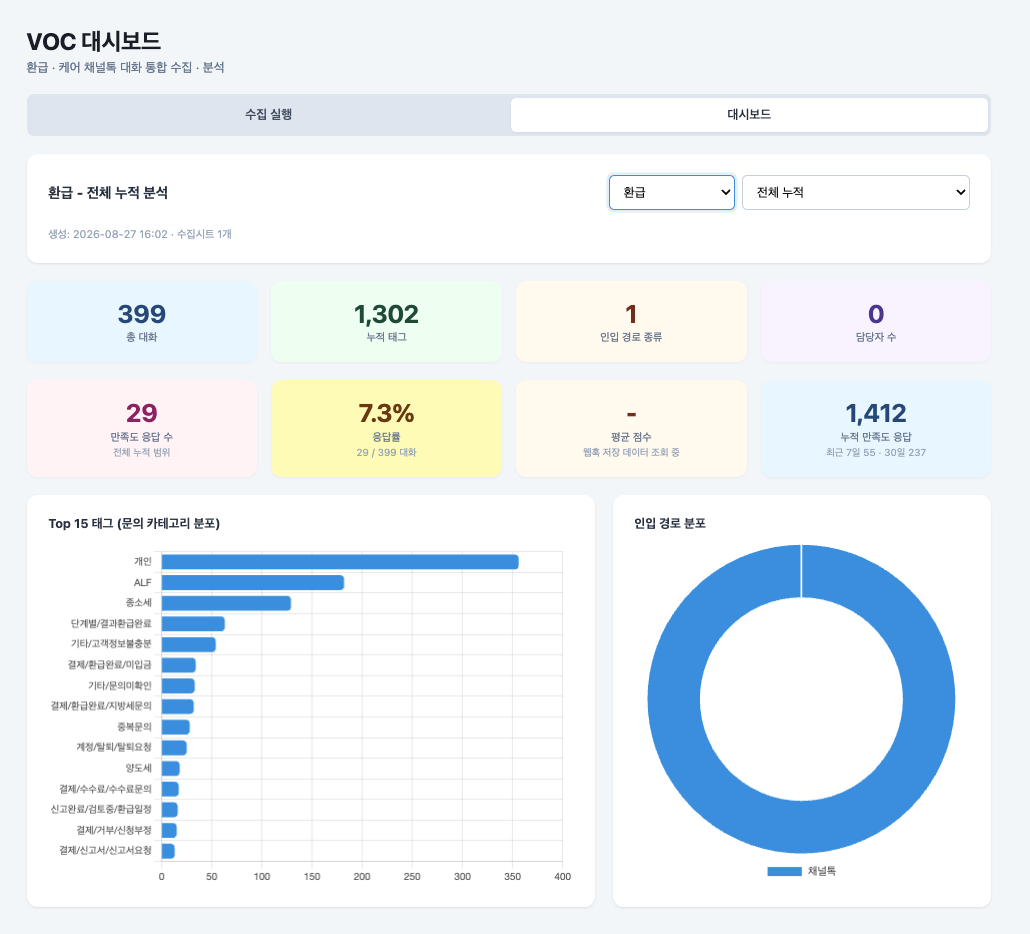
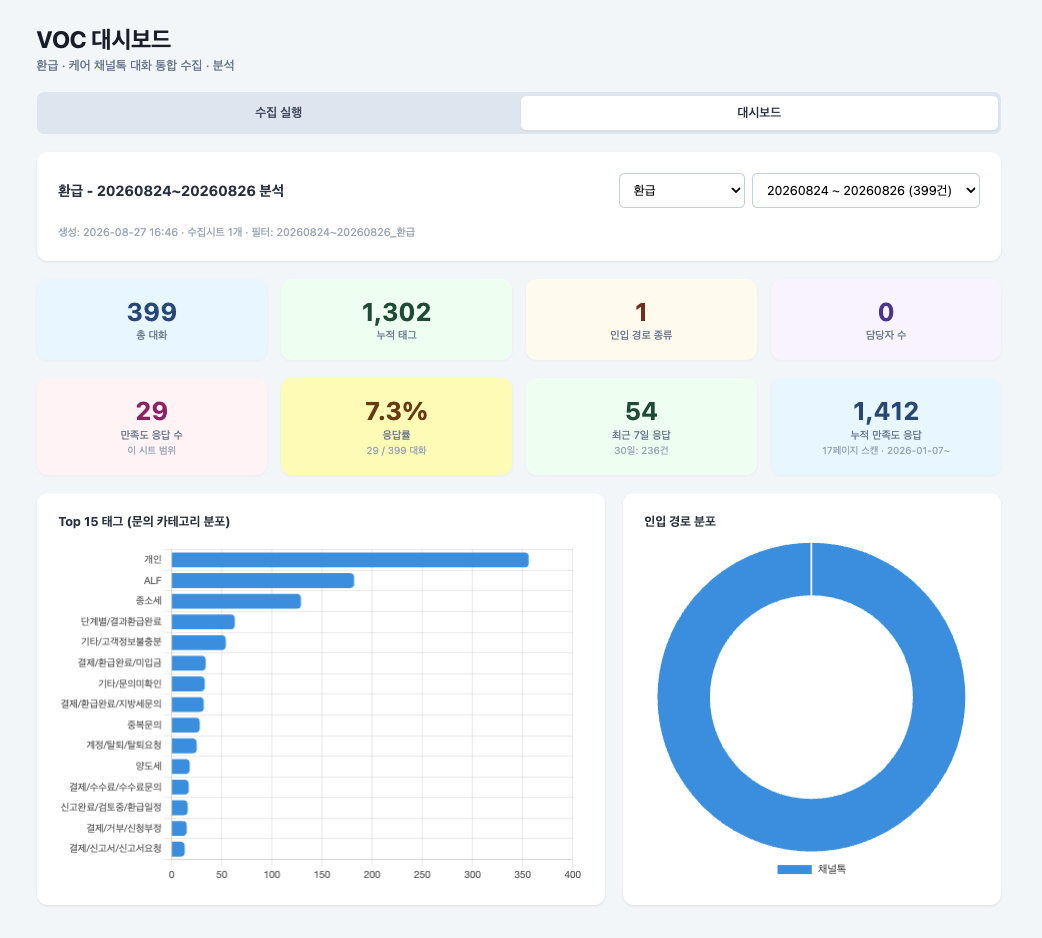
Sync channeltalk-voc: refined dashboard + updated screenshot
- code.gs: additional analytics (최근 7일/30일 응답 KPI, pagination
  scan progress) — workspace slugs and group id remain masked
- dashboard.html: minor refactor
- screenshot: new 환급 dashboard view (satisfaction respondent name
  list cropped out to avoid PII exposure)

diff --git a/projects/channeltalk-voc/dashboard.html b/projects/channeltalk-voc/dashboard.html
@@ -217,10 +217,10 @@
           <div class="lbl">응답률</div>
           <div class="sub" id="kpiRespRateSub">응답 / 대화</div>
         </div>
-        <div class="kpi orange">
-          <div class="num" id="kpiAvgScore">-</div>
-          <div class="lbl">평균 점수</div>
-          <div class="sub" id="kpiAvgScoreSub">점수 조회 필요</div>
+        <div class="kpi green">
+          <div class="num" id="kpiResp7d">-</div>
+          <div class="lbl">최근 7일 응답</div>
+          <div class="sub" id="kpiResp7dSub">전체 그룹 기준</div>
         </div>
         <div class="kpi blue">
           <div class="num" id="kpiRespTotal">-</div>
@@ -248,19 +248,8 @@
           </div>
           <div style="display:flex; gap:8px; align-items:center;">
             <span id="satRefreshedAt" style="font-size:11px; color:#a0aec0;"></span>
-            <button class="secondary" onclick="scanTranscripts()" title="이미 수집된 전사문에 form 내용이 있는지 확인">🔍 전사문 스캔</button>
             <button class="secondary" onclick="loadSatisfaction(true)">🔄 새로고침</button>
           </div>
-        </div>
-
-        <div style="margin-bottom:20px;">
-          <div style="font-size:13px; color:#4a5568; font-weight:600; margin-bottom:8px;">🎯 영향 요소 분포 (점수에 가장 큰 영향을 미친 요소)</div>
-          <div id="factorBox"><div class="empty" style="padding:20px;">점수 조회 후 표시됩니다</div></div>
-        </div>
-
-        <div style="margin-bottom:20px;">
-          <div style="font-size:13px; color:#4a5568; font-weight:600; margin-bottom:8px;">💬 기타 사유 (서술형)</div>
-          <div id="etcBox"><div class="empty" style="padding:20px;">점수 조회 후 표시됩니다</div></div>
         </div>
 
         <div class="table-wrap" id="respondentsBox">
@@ -811,7 +800,7 @@
         return;
       }
 
-      ['kpiRespCount','kpiRespRate','kpiAvgScore','kpiRespTotal'].forEach(function(id) {
+      ['kpiRespCount','kpiRespRate','kpiResp7d','kpiRespTotal'].forEach(function(id) {
         document.getElementById(id).textContent = '...';
       });
       document.getElementById('respondentsBox').innerHTML = '<div class="empty">응답자 조회 중... (10~20초)</div>';
@@ -821,7 +810,7 @@
       google.script.run
         .withSuccessHandler(function(res) {
           if (!res.ok) {
-            ['kpiRespCount','kpiRespRate','kpiAvgScore','kpiRespTotal'].forEach(function(id) {
+            ['kpiRespCount','kpiRespRate','kpiResp7d','kpiRespTotal'].forEach(function(id) {
               document.getElementById(id).textContent = '-';
             });
             document.getElementById('kpiRespCountSub').textContent = res.error || '오류';
@@ -833,7 +822,7 @@
           renderSatisfactionFromData(res, now);
         })
         .withFailureHandler(function(err) {
-          ['kpiRespCount','kpiRespRate','kpiAvgScore','kpiRespTotal'].forEach(function(id) {
+          ['kpiRespCount','kpiRespRate','kpiResp7d','kpiRespTotal'].forEach(function(id) {
             document.getElementById(id).textContent = '-';
           });
           document.getElementById('respondentsBox').innerHTML = '<div class="empty">오류: ' + escapeHtml(err.message) + '</div>';
@@ -849,13 +838,12 @@
       document.getElementById('kpiRespRate').textContent = res.responseRate + '%';
       document.getElementById('kpiRespRateSub').textContent = fmt(res.matchedInSheets) + ' / ' + fmt(res.totalChatsInScope) + ' 대화';
 
-      // 평균점수: 웹훅 저장 시트에서 병합 (아래 mergeStoredWebhookData 에서 처리)
-      document.getElementById('kpiAvgScore').textContent = '-';
-      document.getElementById('kpiAvgScoreSub').textContent = '웹훅 저장 데이터 조회 중';
+      document.getElementById('kpiResp7d').textContent = fmt(res.last7dCount);
+      document.getElementById('kpiResp7dSub').textContent = '30일: ' + fmt(res.last30dCount) + '건';
 
       document.getElementById('kpiRespTotal').textContent = fmt(res.totalRespondentsScanned);
       document.getElementById('kpiRespTotalSub').textContent =
-        '최근 7일 ' + fmt(res.last7dCount) + ' · 30일 ' + fmt(res.last30dCount);
+        res.pagesScanned + '페이지 스캔' + (res.earliestAt ? ' · ' + res.earliestAt + '~' : '');
 
       document.getElementById('satRefreshedAt').textContent = ts ? ('마지막 갱신: ' + fmtAgo(ts)) : '';
       document.getElementById('satisfactionScopeLabel').textContent = '총 ' + fmt(res.matchedInSheets) + '명 매칭';
@@ -890,26 +878,16 @@
             '<th style="width:30px;">#</th>' +
             '<th>이름</th>' +
             '<th>인입</th>' +
-            '<th class="num">점수</th>' +
-            '<th>영향 요소</th>' +
             '<th>문의 태그</th>' +
             '<th>응답 시각</th>' +
             '<th>링크</th>' +
           '</tr></thead><tbody>' +
           pageItems.map(function(r, i) {
-            var effectiveScore = (r.actualScore !== undefined && r.actualScore !== null && r.actualScore !== '') ? r.actualScore : r.avgScore;
-            var effectiveFactor = r.actualFactor || r.factor;
-            var scoreCell = (effectiveScore !== undefined && effectiveScore !== null && effectiveScore !== '')
-              ? '<span>' + effectiveScore + '</span>'
-              : '<span style="color:#cbd5e0;">-</span>';
-            var factorCell = effectiveFactor ? escapeHtml(effectiveFactor) : '<span style="color:#cbd5e0;">-</span>';
             return '<tr>' +
               '<td style="color:#a0aec0;">' + (start + i + 1) + '</td>' +
               '<td>' + escapeHtml(r.name) + '</td>' +
               '<td>' + escapeHtml(r.inflow) + '</td>' +
-              '<td class="num">' + scoreCell + '</td>' +
-              '<td>' + factorCell + '</td>' +
-              '<td style="max-width:200px; overflow:hidden; text-overflow:ellipsis; white-space:nowrap;" title="' + escapeAttr(r.tags) + '">' + escapeHtml(r.tags) + '</td>' +
+              '<td style="max-width:250px; overflow:hidden; text-overflow:ellipsis; white-space:nowrap;" title="' + escapeAttr(r.tags) + '">' + escapeHtml(r.tags) + '</td>' +
               '<td>' + escapeHtml(r.respondedAt) + '</td>' +
               '<td>' + (r.link ? '<a href="' + escapeAttr(r.link) + '" target="_blank" style="color:#3182ce;">열기 →</a>' : '-') + '</td>' +
             '</tr>';
